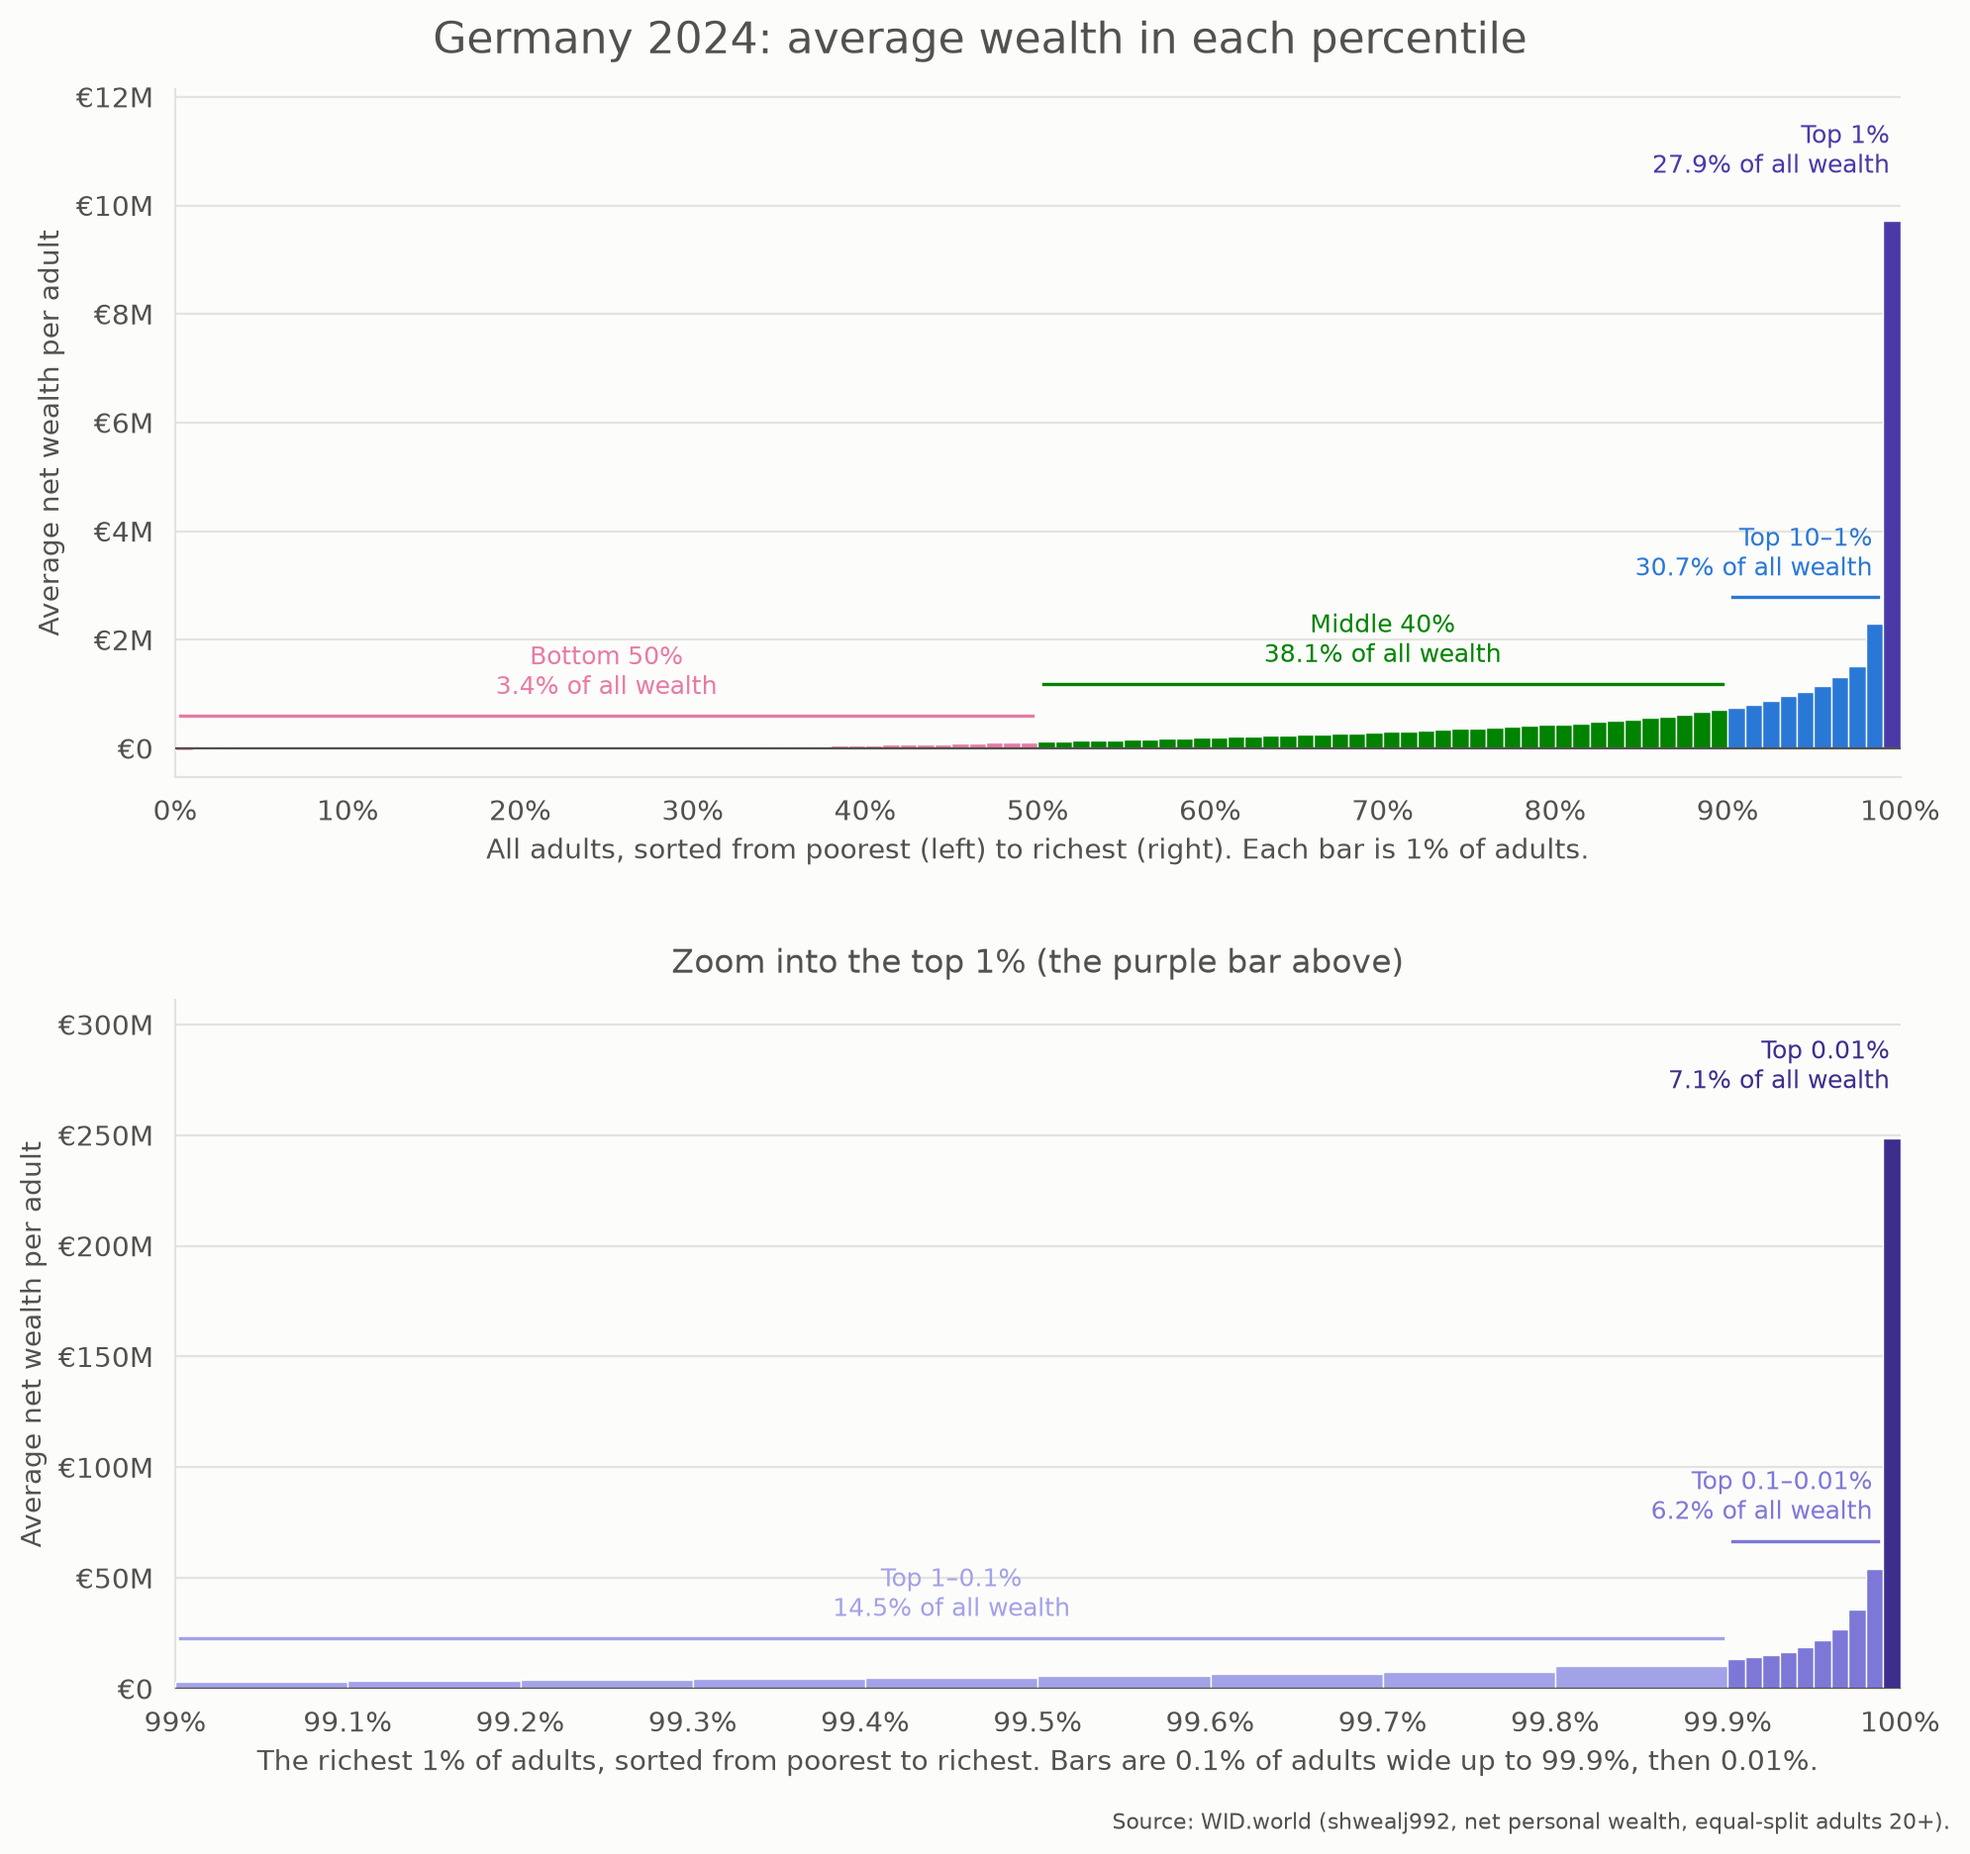
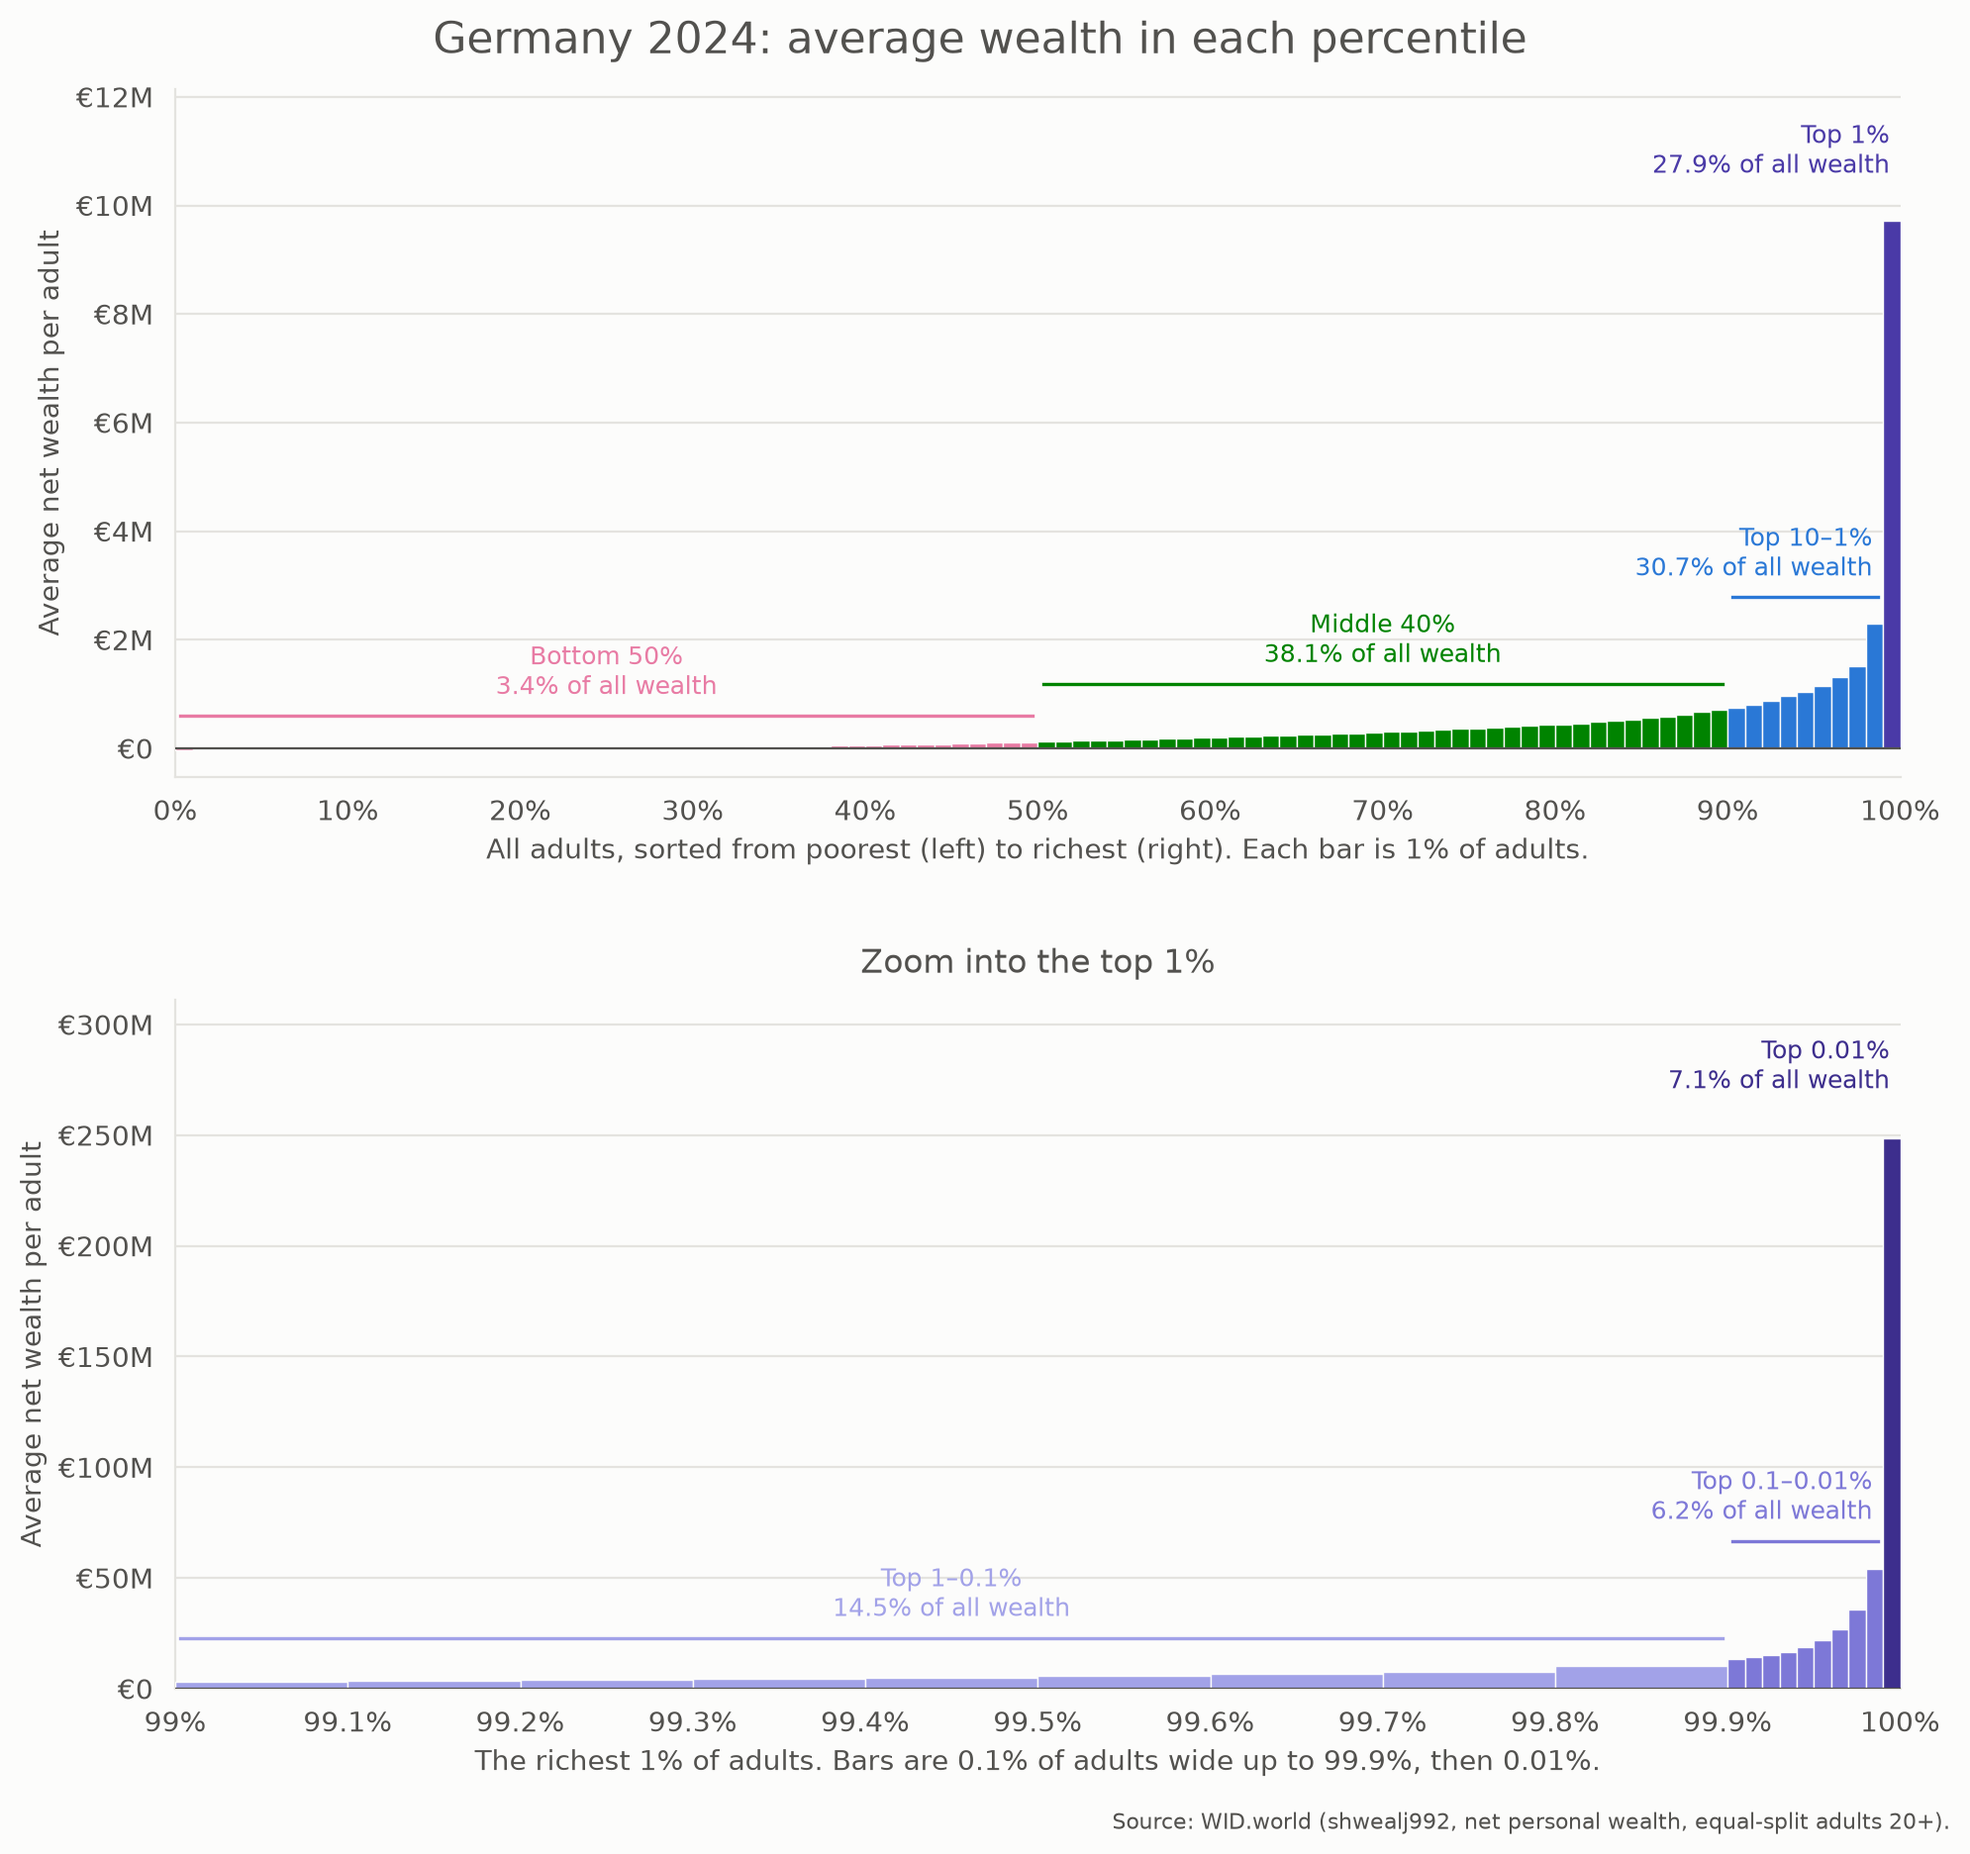
Percentile zoom: shorter panel title and x label

Changed region(s): [[0.2181, 0.929, 0.9035, 0.96], [0.3427, 0.4955, 0.7166, 0.5264]]

diff --git a/src/wid/plotting/percentile_bars.py b/src/wid/plotting/percentile_bars.py
@@ -180,8 +180,8 @@ def plot_percentile_bars_zoom(
         df_top,
         TOP_PERCENT_GROUPS,
         tick_step=0.1,
-        xlabel="The richest 1% of adults, sorted from poorest to richest. Bars are "
-        "0.1% of adults wide up to 99.9%, then 0.01%.",
+        xlabel="The richest 1% of adults. Bars are 0.1% of adults wide up to 99.9%, "
+        "then 0.01%.",
     )
     fig.suptitle(
         f"Germany {year}: average wealth in each percentile",
@@ -189,7 +189,7 @@ def plot_percentile_bars_zoom(
         fontsize=16,
     )
     ax_top.set_title(
-        "Zoom into the top 1% (the purple bar above)",
+        "Zoom into the top 1%",
         color=INK_SECONDARY,
         fontsize=12,
         pad=10,
